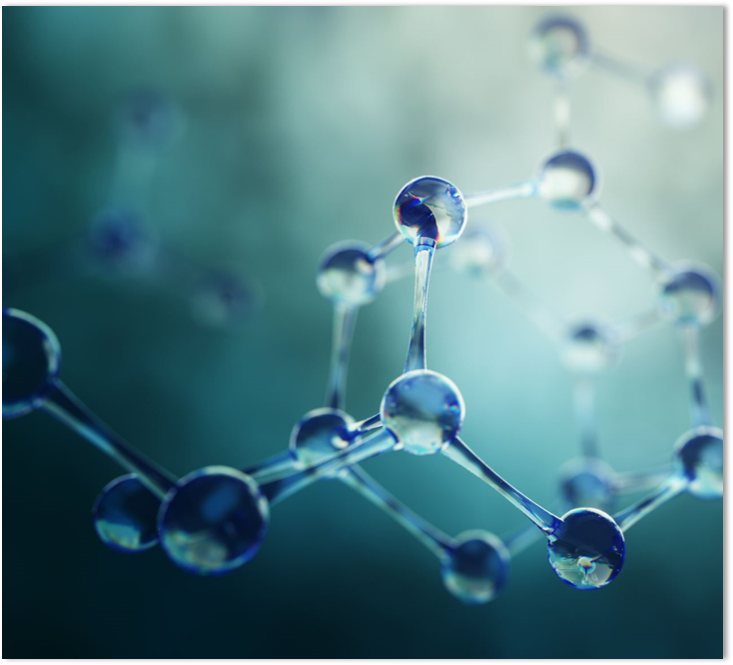
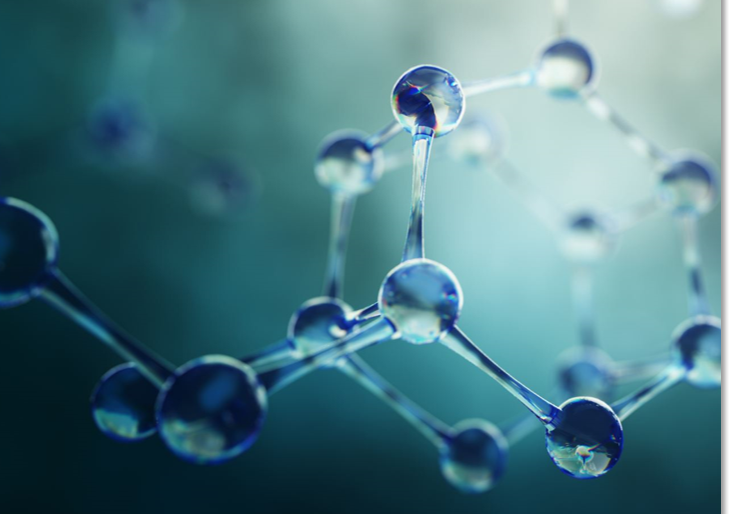
Images on side

diff --git a/assets/css/common/post-entry.css b/assets/css/common/post-entry.css
@@ -1,104 +1,107 @@
 .first-entry {
-    position: relative;
-    display: flex;
-    flex-direction: column;
-    justify-content: center;
-    min-height: 320px;
-    margin: var(--gap) 0 calc(var(--gap) * 2) 0;
+  position: relative;
+  display: flex;
+  flex-direction: column;
+  justify-content: center;
+  min-height: 320px;
+  margin: var(--gap) 0 calc(var(--gap) * 2) 0;
 }
 
 .first-entry .entry-header {
-    overflow: hidden;
-    display: -webkit-box;
-    -webkit-box-orient: vertical;
-    -webkit-line-clamp: 3;
+  overflow: hidden;
+  display: -webkit-box;
+  -webkit-box-orient: vertical;
+  -webkit-line-clamp: 3;
 }
 
 .first-entry .entry-header h1 {
-    font-size: 34px;
-    line-height: 1.3;
+  font-size: 34px;
+  line-height: 1.3;
 }
 
 .first-entry .entry-content {
-    margin: 14px 0;
-    font-size: 14px;
-    -webkit-line-clamp: 3;
+  margin: 14px 0;
+  font-size: 14px;
+  -webkit-line-clamp: 3;
 }
 
 .first-entry .entry-footer {
-    font-size: 14px;
+  font-size: 14px;
 }
 
 .home-info .entry-content {
-    -webkit-line-clamp: unset;
+  -webkit-line-clamp: unset;
 }
 
 .post-entry {
-    position: relative;
-    margin-bottom: var(--gap);
-    padding: var(--gap);
-    background: var(--entry);
-    border-radius: var(--radius);
-    transition: transform 0.1s;
-    border: 1px solid var(--border);
+  position: relative;
+  margin-bottom: var(--gap);
+  padding: var(--gap);
+  background: var(--entry);
+  border-radius: var(--radius);
+  transition: transform 0.1s;
+  border: 1px solid var(--border);
 }
 
 .post-entry:active {
-    transform: scale(0.96);
+  transform: scale(0.96);
 }
 
 .tag-entry .entry-cover {
-    display: none;
+  display: none;
 }
 
 .entry-header h2 {
-    font-size: 24px;
-    line-height: 1.3;
+  font-size: 24px;
+  line-height: 1.3;
 }
 
 .entry-content {
-    margin: 8px 0;
-    color: var(--secondary);
-    font-size: 14px;
-    line-height: 1.6;
-    overflow: hidden;
-    display: -webkit-box;
-    -webkit-box-orient: vertical;
-    -webkit-line-clamp: 2;
+  margin: 8px 0;
+  color: var(--secondary);
+  font-size: 14px;
+  line-height: 1.6;
+  overflow: hidden;
+  display: -webkit-box;
+  -webkit-box-orient: vertical;
+  -webkit-line-clamp: 2;
 }
 
 .entry-footer {
-    color: var(--secondary);
-    font-size: 13px;
+  color: var(--secondary);
+  font-size: 13px;
 }
 
 .entry-link {
-    position: absolute;
-    left: 0;
-    right: 0;
-    top: 0;
-    bottom: 0;
+  position: absolute;
+  left: 0;
+  right: 0;
+  top: 0;
+  bottom: 0;
 }
 
 .entry-cover,
 .entry-isdraft {
-    font-size: 14px;
-    color: var(--secondary);
+  font-size: 14px;
+  color: var(--secondary);
 }
 
 .entry-cover {
-    margin-bottom: var(--gap);
-    text-align: center;
+  margin-bottom: var(--gap);
+  text-align: center;
 }
 
 .entry-cover img {
-    border-radius: var(--radius);
-    pointer-events: none;
-    width: 20%;
-    height: auto;
+  border-radius: var(--radius);
+  pointer-events: none;
+  width: 15%;
+  height: auto;
+  float: left;
+  margin-right: 24px;
+  margin-top: 10px;
 }
 
 .entry-cover a {
-    color: var(--secondary);
-    box-shadow: 0 1px 0 var(--primary);
+  color: var(--secondary);
+  box-shadow: 0 1px 0 var(--primary);
 }

diff --git a/layouts/_default/single.html b/layouts/_default/single.html
@@ -1,0 +1,48 @@
+{{- define "main" }}
+
+<article class="post-single">
+  <header class="post-header">
+    {{ partial "breadcrumbs.html" . }} {{- $isHidden := .Params.cover.hidden |
+    default site.Params.cover.hiddenInSingle | default site.Params.cover.hidden
+    }} {{- partial "cover.html" (dict "cxt" . "IsHome" false "isHidden"
+    $isHidden) }} {{- if (.Param "ShowToc") }}
+    <h1 class="post-title">
+      {{ .Title }} {{- if .Draft }}<sup
+        ><span class="entry-isdraft">&nbsp;&nbsp;[draft]</span></sup
+      >{{- end }}
+    </h1>
+    {{- if .Description }}
+    <div class="post-description">{{ .Description }}</div>
+    {{- end }} {{- if not (.Param "hideMeta") }}
+    <div class="post-meta">
+      {{- partial "post_meta.html" . -}} {{- partial "translation_list.html" .
+      -}} {{- partial "edit_post.html" . -}} {{- partial "post_canonical.html" .
+      -}}
+    </div>
+    <br />
+    <hr style="margin: 20px 0px 20px 0px" />
+    {{- end }}
+  </header>
+  {{- partial "toc.html" . }} {{- end }} {{- if .Content }}
+  <div class="post-content">
+    {{- if not (.Param "disableAnchoredHeadings") }} {{- partial
+    "anchored_headings.html" .Content -}} {{- else }}{{ .Content }}{{ end }}
+  </div>
+  {{- end }}
+
+  <footer class="post-footer">
+    {{- $tags := .Language.Params.Taxonomies.tag | default "tags" }}
+    <ul class="post-tags">
+      {{- range ($.GetTerms $tags) }}
+      <li><a href="{{ .Permalink }}">{{ .LinkTitle }}</a></li>
+      {{- end }}
+    </ul>
+    {{- if (.Param "ShowPostNavLinks") }} {{- partial "post_nav_links.html" . }}
+    {{- end }} {{- if (and site.Params.ShowShareButtons (ne .Params.disableShare
+    true)) }} {{- partial "share_icons.html" . -}} {{- end }}
+  </footer>
+
+  {{- if (.Param "comments") }} {{- partial "comments.html" . }} {{- end }}
+</article>
+
+{{- end }}{{/* end main */}}
